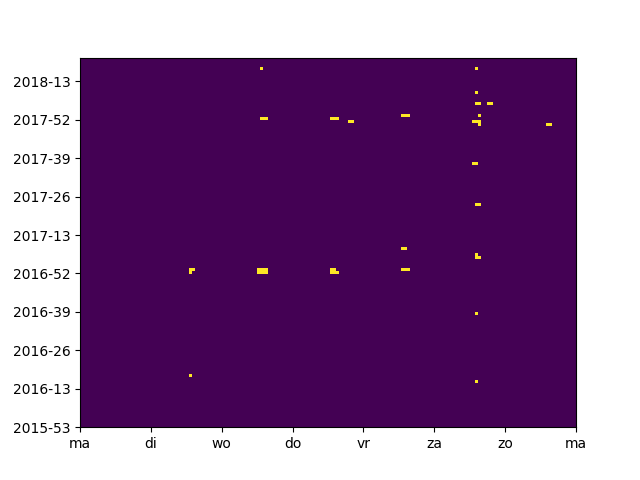
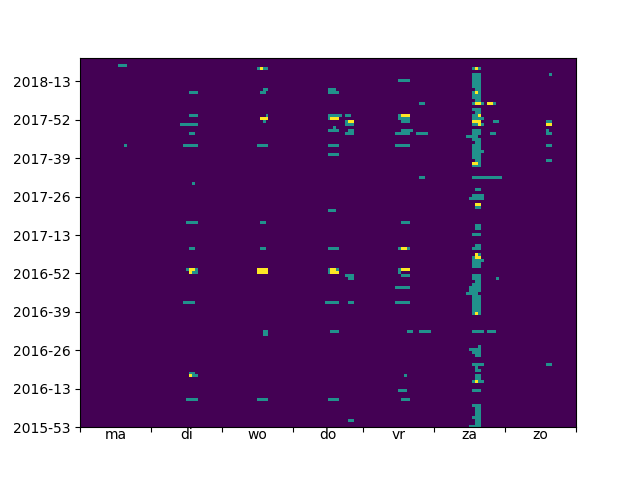
Updated graphs, included 90% full

diff --git a/Groep 5/parking/full.py b/Groep 5/parking/full.py
@@ -2,6 +2,7 @@ import pandas as pd
 import numpy as np
 import datetime as dt
 import matplotlib.pyplot as plt
+import matplotlib.ticker as ticker
 from matplotlib.ticker import FuncFormatter, MaxNLocator, MultipleLocator
 
 from parking.util import load_garage_transactions
@@ -18,13 +19,22 @@ from parking.util import *
 def yearweek_dayhour_full(ts):
     tag(ts, 'dt', 'yearweek', year_week)
     tag(ts, 'dt', 'dayhour', weekday_hour)
-    df = ts.groupby(['yearweek','dayhour'])['full'].any()
-    f = df.unstack(1).fillna(False)
-    f = f.astype(int)
     start = ts['dt'].min()
     end = ts['dt'].max()
     d = pd.DataFrame(0, index=yearweeks(start,end), columns=dayhours())
+
+    df = ts.groupby(['yearweek','dayhour'])['90%'].any()
+    f = df.unstack(1).fillna(False)
+    f[f == True] = 1
+    f[f == False] = np.nan
     d.update(f)
+
+    df = ts.groupby(['yearweek','dayhour'])['full'].any()
+    f = df.unstack(1).fillna(False)
+    f[f == True] = 2
+    f[f == False] = np.nan
+    d.update(f)
+
     d = d.astype(int)
     return d
 
@@ -36,7 +46,6 @@ def yearweek_dayhour_max(ts):
     start = ts['dt'].min()
     end = ts['dt'].max()
     d = pd.DataFrame(0, index=yearweeks(start,end), columns=dayhours())
-    print(f)
     d.update(f)
     d = d.astype(int)
     print(d)
@@ -45,24 +54,25 @@ def yearweek_dayhour_max(ts):
 def plot_heatmap(sel):
     fig = plt.figure()
     ax = fig.add_subplot(111)
+    plt.pcolor(sel)
+
     xs = range(sel.shape[1])
     ys = range(sel.shape[0])
 
     ax.xaxis.set_major_formatter(ticker.NullFormatter())
-    ax.xaxis.set_major_locator(MultipleLocator(24))
+    ax.xaxis.set_major_locator(ticker.IndexLocator(base=24, offset=0))
 
-    ax.yaxis.set_minor_formatter(FuncFormatter(weekday_hour_formatter))
-    ax.yaxis.set_minor_locator(ticker.IndexLocator(base=24, offset=12))
+    ax.xaxis.set_minor_formatter(FuncFormatter(weekday_hour_formatter))
+    ax.xaxis.set_minor_locator(ticker.IndexLocator(base=24, offset=12))
 
-    for tick in ax.yaxis.get_minor_ticks():
+    for tick in ax.xaxis.get_minor_ticks():
         tick.tick1line.set_markersize(0)
         tick.tick2line.set_markersize(0)
-        tick.label1.set_horizontalalignment('center')
+        tick.label1.set_verticalalignment('center')
 
     ax.yaxis.set_major_formatter(FuncFormatter(yearweek_formatter(sel, 13)))
     ax.yaxis.set_major_locator(MultipleLocator(13))
 
-    plt.pcolor(sel)
     #plt.yticks(np.arange(sel.shape[0]))
     #plt.xticks(np.arange(sel.shape[1], step=24))
 
@@ -81,6 +91,10 @@ def select_garage(ts, garage_id):
 def mark_full(ts, garages):
     ts['capacity'] = ts['garage_id'].map(garages['capacity_value'])
     ts['full'] = ts['sum'] >= ts['capacity']
+
+def mark_90(ts, garages):
+    ts['capacity'] = ts['garage_id'].map(garages['capacity_value'])
+    ts['90%'] = ts['sum'] >= ts['capacity'] * .9
 
 def mark_changed(ts):
     g = ts.groupby('garage_id')['full']
@@ -105,6 +119,7 @@ if __name__ == '__main__':
     ts = timeseries_garages(df)
 
     mark_full(ts, garages)
+    mark_90(ts, garages)
     mark_changed(ts)
     #mark_periods(ts)
     for i,v in garages.iterrows():

diff --git a/Groep 5/parking/util.py b/Groep 5/parking/util.py
@@ -8,9 +8,9 @@ import time
 weekday_labels = ['ma','di','wo','do','vr','za','zo']
 
 def weekday_hour_formatter(val, pos):
-    if val % 24 == 0:
-        return weekday_labels[int(val / 24) % 7]
-    return ''
+    #if val % 24 == 0:
+    return weekday_labels[int(val / 24) % 7]
+    #return ''
 
 def weekday_formatter(val, pos):
     return weekday_labels[int(val) % 7]
